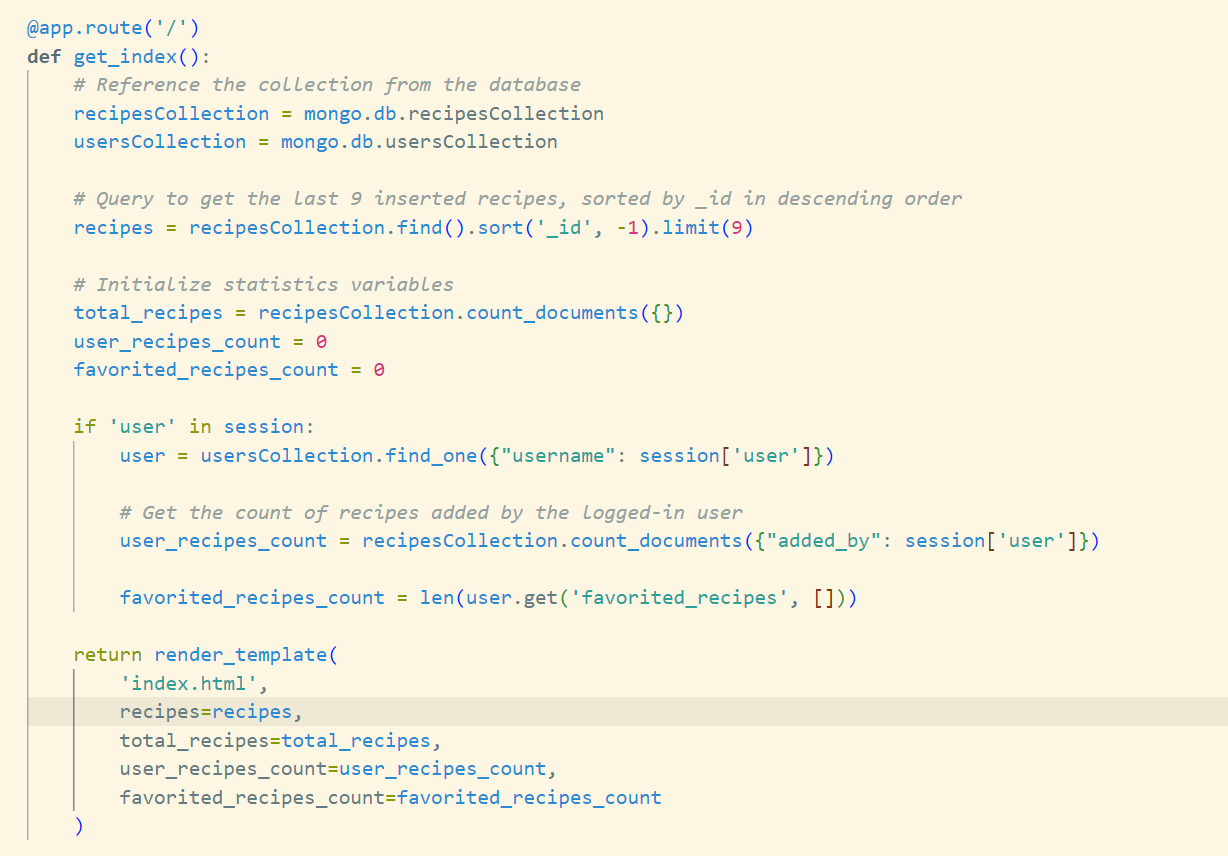
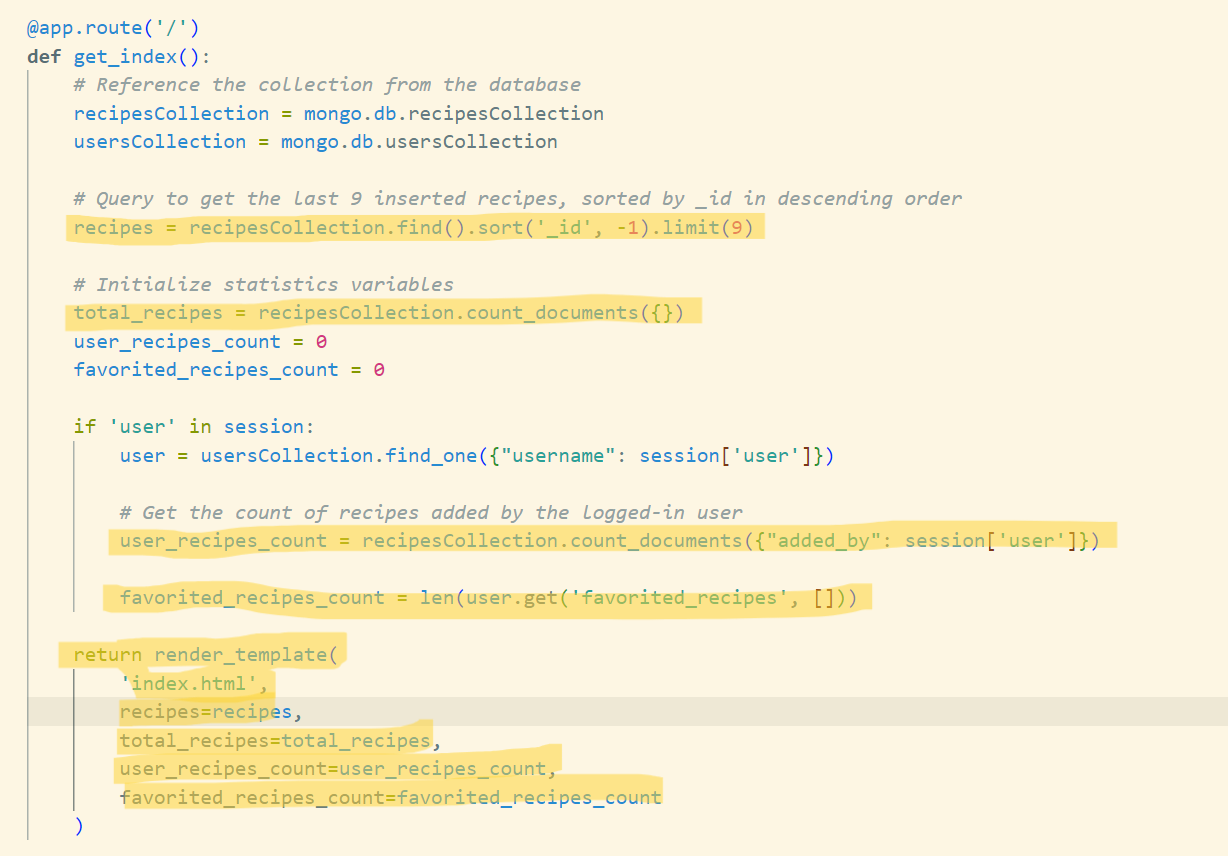
updating read me file: Accessing Home page

Changed region(s): [[0.0309, 0.6075, 0.9283, 0.972], [0.0309, 0.243, 0.6498, 0.3037], [0.0309, 0.3341, 0.5879, 0.3949]]

diff --git a/README.md b/README.md
@@ -646,9 +646,19 @@ If the user is not logged in, they are shown a generic welcome message and promp
 
 ![Index Page](./static/images/report_images/index2.png)
 
+The featured recipes section displays the most recent recipes from the database. Each recipe is presented as a clickable card that contains the recipe image, title, cook time, and servings.
+The loop.index % 3 == 0 logic ensures that a new row starts after every three recipes, creating a neat grid layout.
 
+![Display Three Cards](./static/images/report_images/displayRecipeloop.png)
+
+This Flask route fetches the data needed to populate this homepage
 
 ![Index Route](./static/images/report_images/indexroute.png)
+
+-  The recipes = recipesCollection.find().sort('_id', -1).limit(9) line retrieves the last 9 recipes added to the database, sorting them in descending order by _id. This ensures that the most recent recipes are displayed on the homepage.
+-  The count_documents function counts the total number of recipes in the database, which is displayed on the user's dashboard.
+-  If the user is logged in, the server fetches the count of recipes they have added, which is also displayed in their dashboard.
+-  he Flask route passes the recipe data and statistics to the index.html template for rendering.
 
 
 
